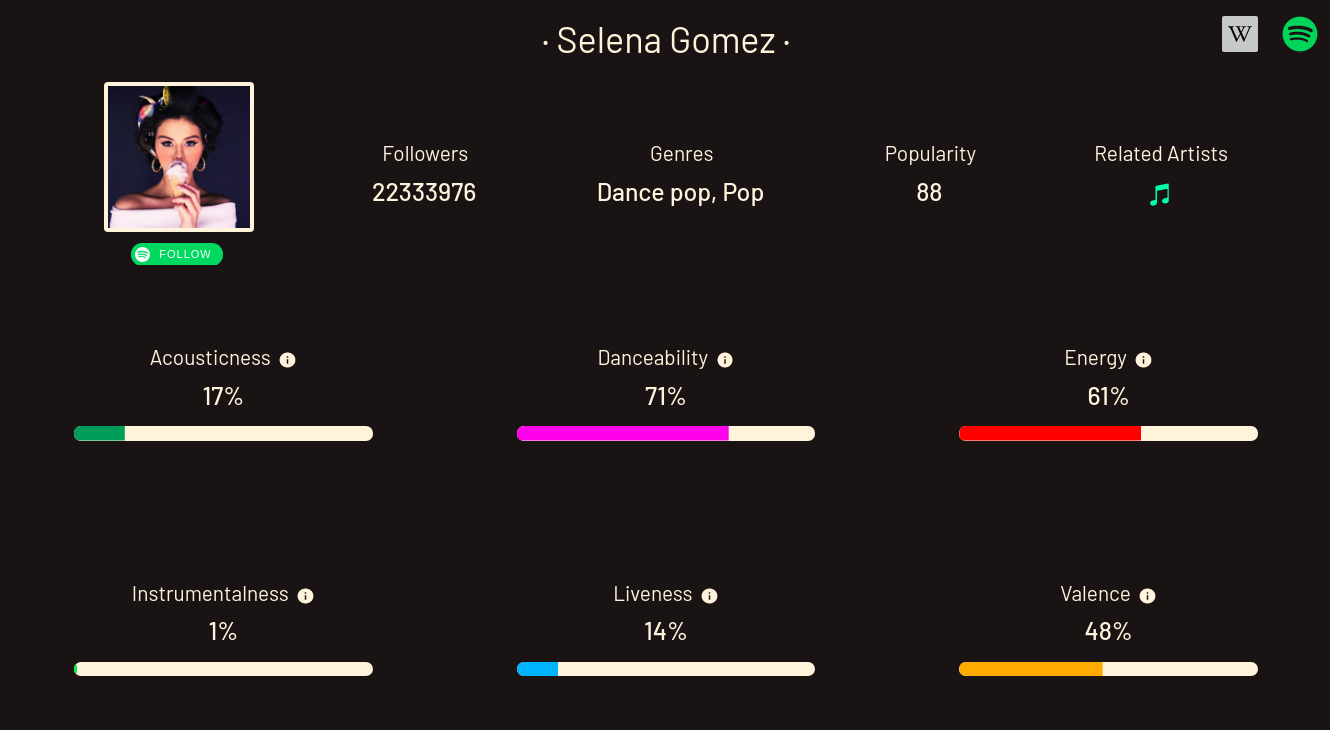
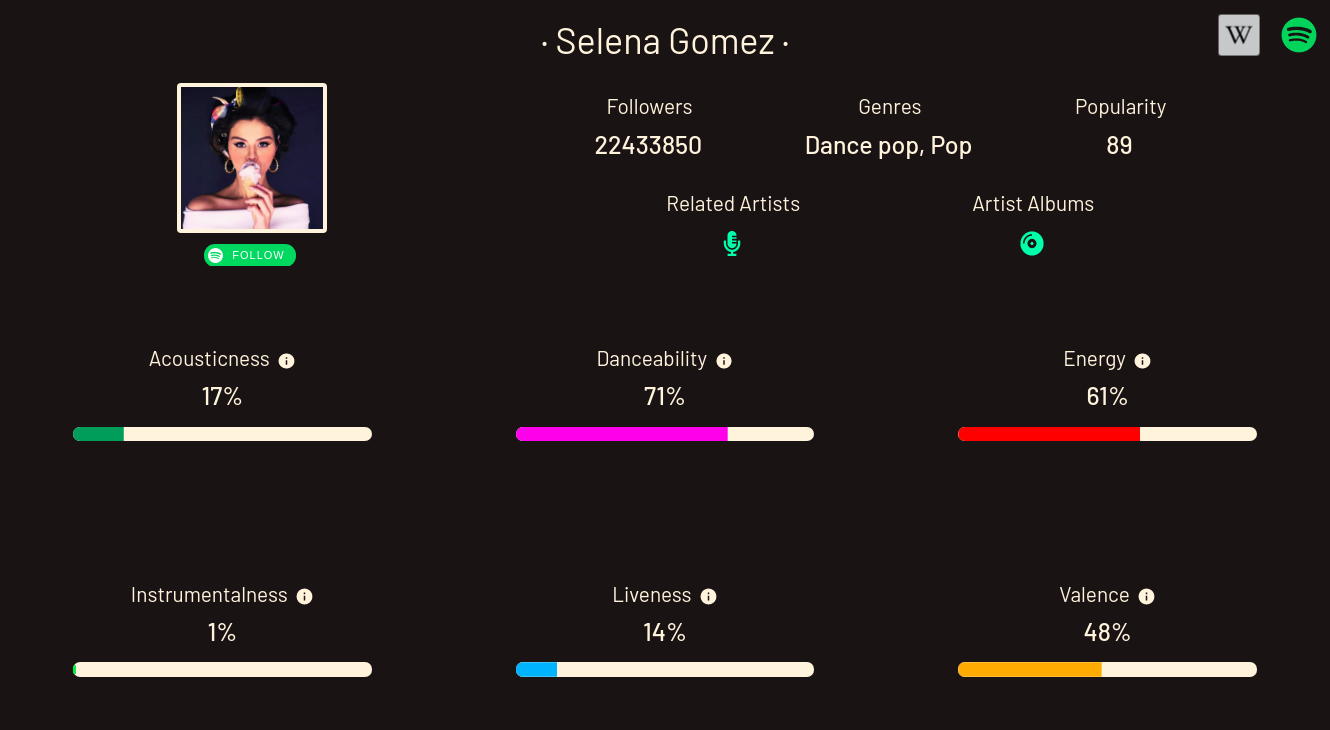
Some aesthetic improvements.

diff --git a/src/components/Artist/Artist.js b/src/components/Artist/Artist.js
@@ -6,7 +6,7 @@ import { useLocation, Redirect, Link } from 'react-router-dom';
 import { Image } from 'react-bootstrap';
 import { Tab, Tabs, TabList, TabPanel } from 'react-tabs';
 import { trackPromise, usePromiseTracker } from 'react-promise-tracker';
-import { FaWikipediaW, FaSpotify, FaItunesNote } from 'react-icons/fa';
+import { FaWikipediaW, FaSpotify, FaMicrophoneAlt, FaCompactDisc } from 'react-icons/fa';
 
 import { refreshToken } from '../Auth/Auth';
 import default_art from '../../assets/images/default_art.png';
@@ -351,7 +351,7 @@ function Artist() {
 													to={`/related_artists?id=${artist}&page=${1}`}
 													className="inner-link"
 												>
-													<FaItunesNote />
+													<FaMicrophoneAlt />
 												</Link>
 											}
 											units=""
@@ -364,7 +364,7 @@ function Artist() {
 													to={`/artist_albums?id=${artist}&page=${1}`}
 													className="inner-link"
 												>
-													<FaItunesNote />
+													<FaCompactDisc />
 												</Link>
 											}
 											units=""

diff --git a/src/components/Artist/ArtistAlbums.js b/src/components/Artist/ArtistAlbums.js
@@ -4,6 +4,7 @@ import { Tab, Tabs, TabList, TabPanel } from 'react-tabs';
 import { useLocation, useHistory, Redirect } from 'react-router-dom';
 import Pagination from 'react-js-pagination';
 import Spotify from 'spotify-web-api-js';
+import { Helmet } from 'react-helmet';
 import { trackPromise, usePromiseTracker } from 'react-promise-tracker';
 
 import { refreshToken } from '../Auth/Auth';
@@ -14,7 +15,6 @@ import Search from '../Search/Search';
 import SideToggle from '../Common/SideToggle';
 import HeaderBar from '../Common/HeaderBar';
 import LoadingSpinner from '../Common/LoadingSpinner';
-import { Helmet } from 'react-helmet';
 import NoContent from '../Common/NoContent';
 import AlbumCards from '../Album/AlbumCards';
 import AlbumTable from '../Album/AlbumTable';
